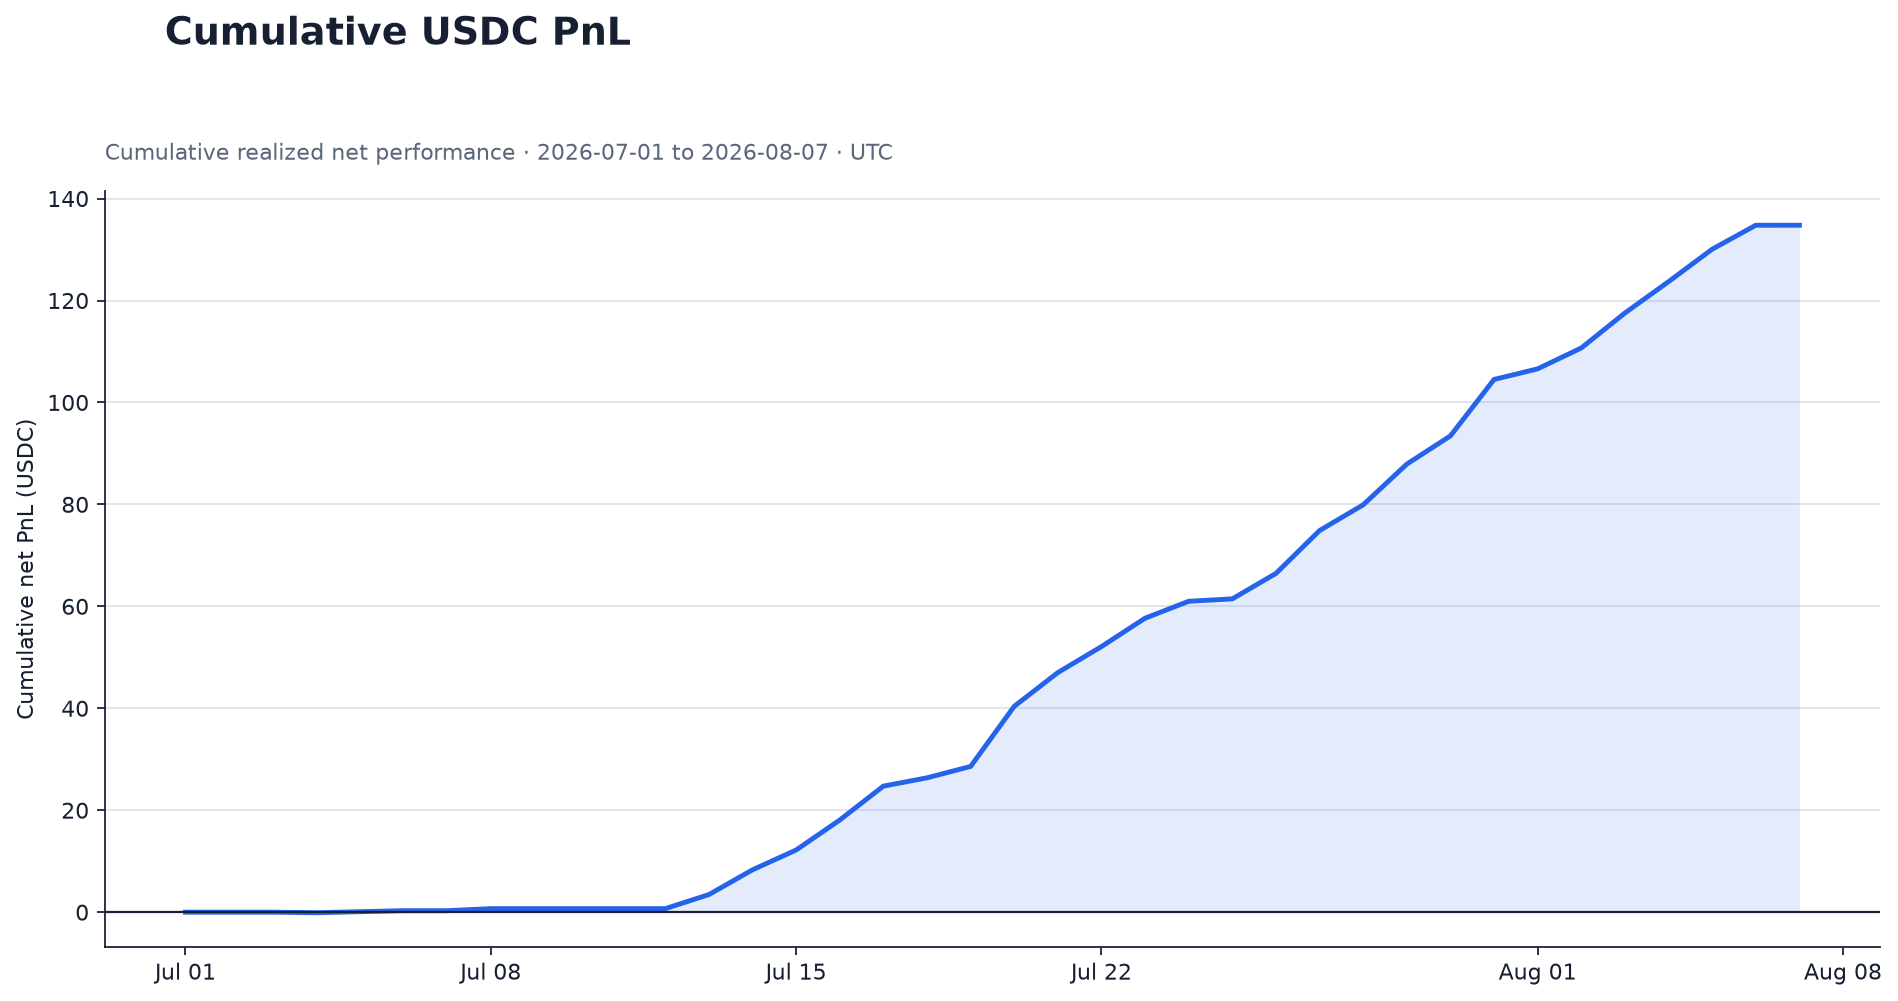
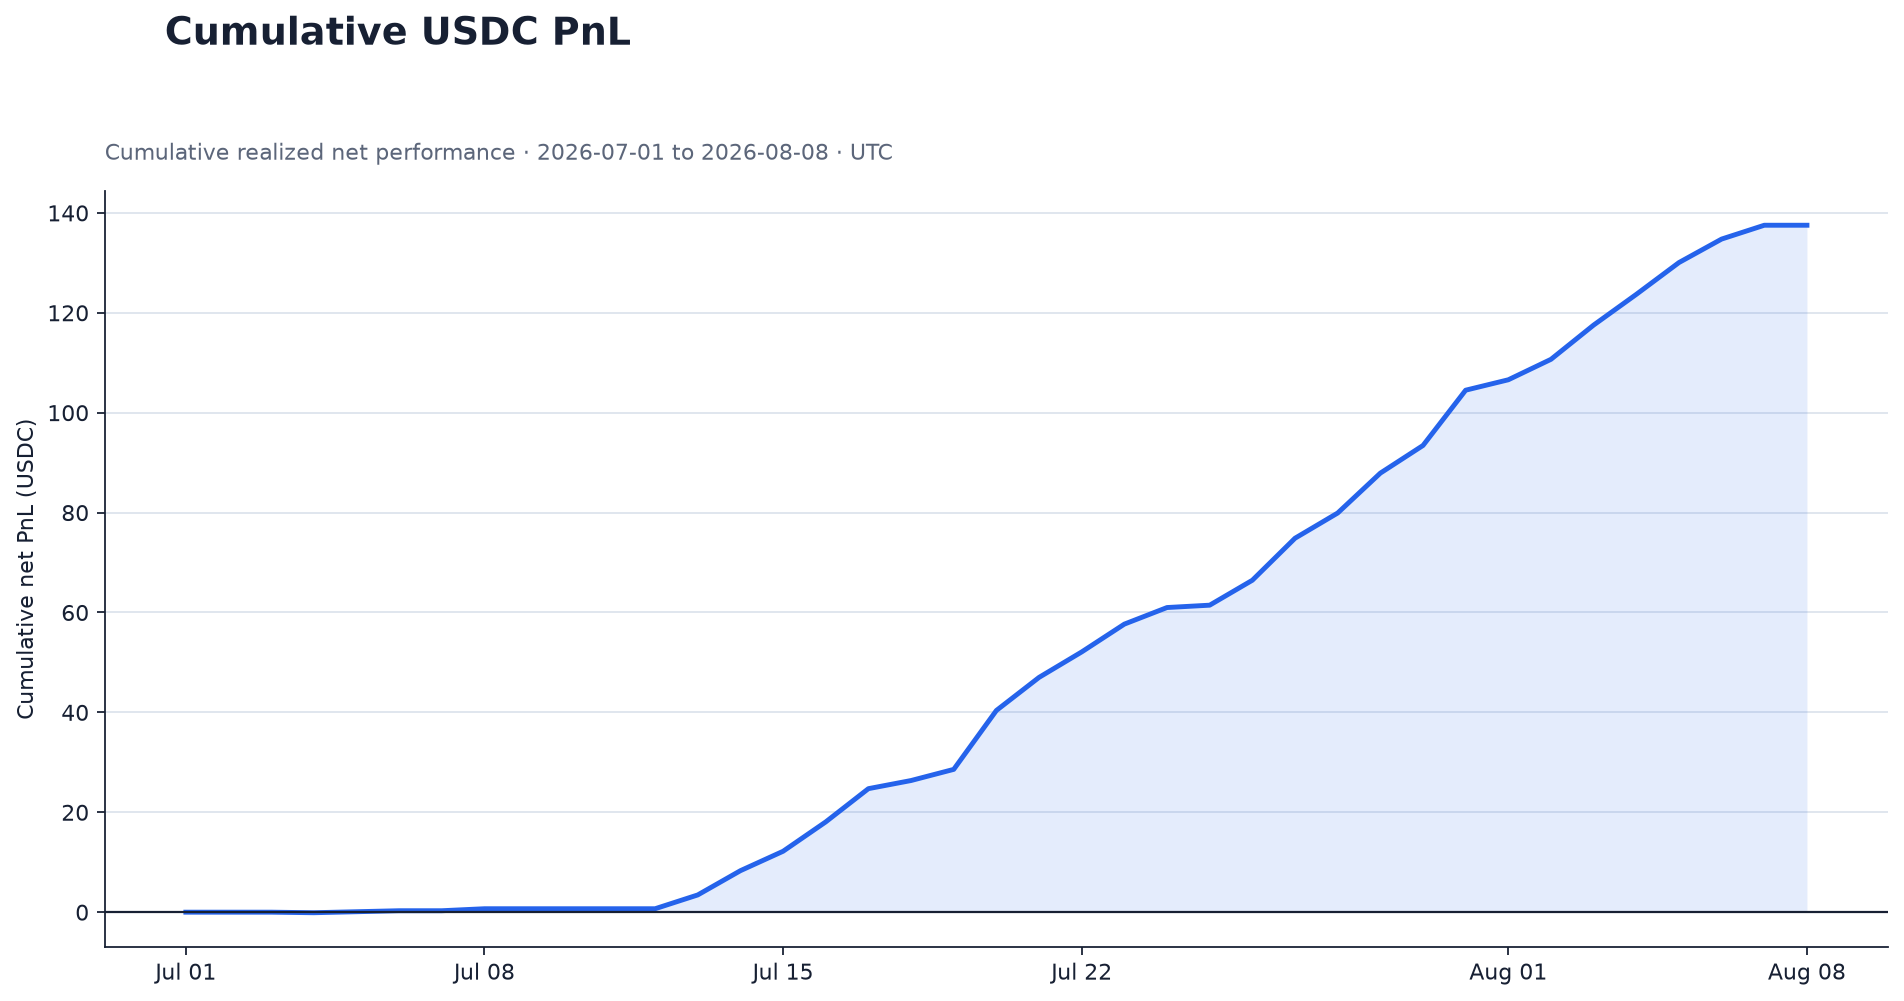
chore: update USDC performance

diff --git a/reports/performance_summary.md b/reports/performance_summary.md
@@ -1,7 +1,7 @@
 # Performance Summary
 
-Generated at: **2026-08-07T00:10:07Z**<br>
-Coverage: **2026-07-01 to 2026-08-07 (UTC)**<br>
+Generated at: **2026-08-08T00:10:07Z**<br>
+Coverage: **2026-07-01 to 2026-08-08 (UTC)**<br>
 Scope: **Daily USDC USD-M Futures realized performance**
 
 Absolute account values are not published. USD-M Futures transfers are excluded from trading return.
@@ -9,23 +9,23 @@ Sharpe and Sortino use private total daily returns including unrealized PnL; unr
 
 | Metric | Value |
 |---|---:|
-| Cumulative Return | 3.04% |
+| Cumulative Return | 3.10% |
 | Latest Daily Return | 0.00% |
-| Annualized Return | 36.64% |
-| Annualized Volatility | 1.36% |
-| Sharpe Ratio | 5.721263 |
-| Sortino Ratio | 10.150423 |
+| Annualized Return | 36.28% |
+| Annualized Volatility | 1.35% |
+| Sharpe Ratio | 5.764548 |
+| Sortino Ratio | 10.224468 |
 | Maximum Drawdown | -0.01% |
-| Calmar Ratio | 4011.427138 |
-| Win Rate | 96.67% |
-| Profit Factor | 1231.145563 |
-| Total Realized Pnl Usdc | 133.137399 |
+| Calmar Ratio | 3972.279281 |
+| Win Rate | 96.77% |
+| Profit Factor | 1256.399661 |
+| Total Realized Pnl Usdc | 135.889199 |
 | Total Commission Usdc | -0.075227 |
-| Total Funding Fee Usdc | 1.703154 |
-| Total Net Pnl Usdc | 134.765325 |
-| Number Of Trading Days | 30 |
-| Number Of Trades | 957 |
-| Valid Return Days | 35 |
+| Total Funding Fee Usdc | 1.717999 |
+| Total Net Pnl Usdc | 137.531971 |
+| Number Of Trading Days | 31 |
+| Number Of Trades | 979 |
+| Valid Return Days | 36 |
 | Excluded Return Days | 3 |
 | Annualization Factor | 365 |
 
